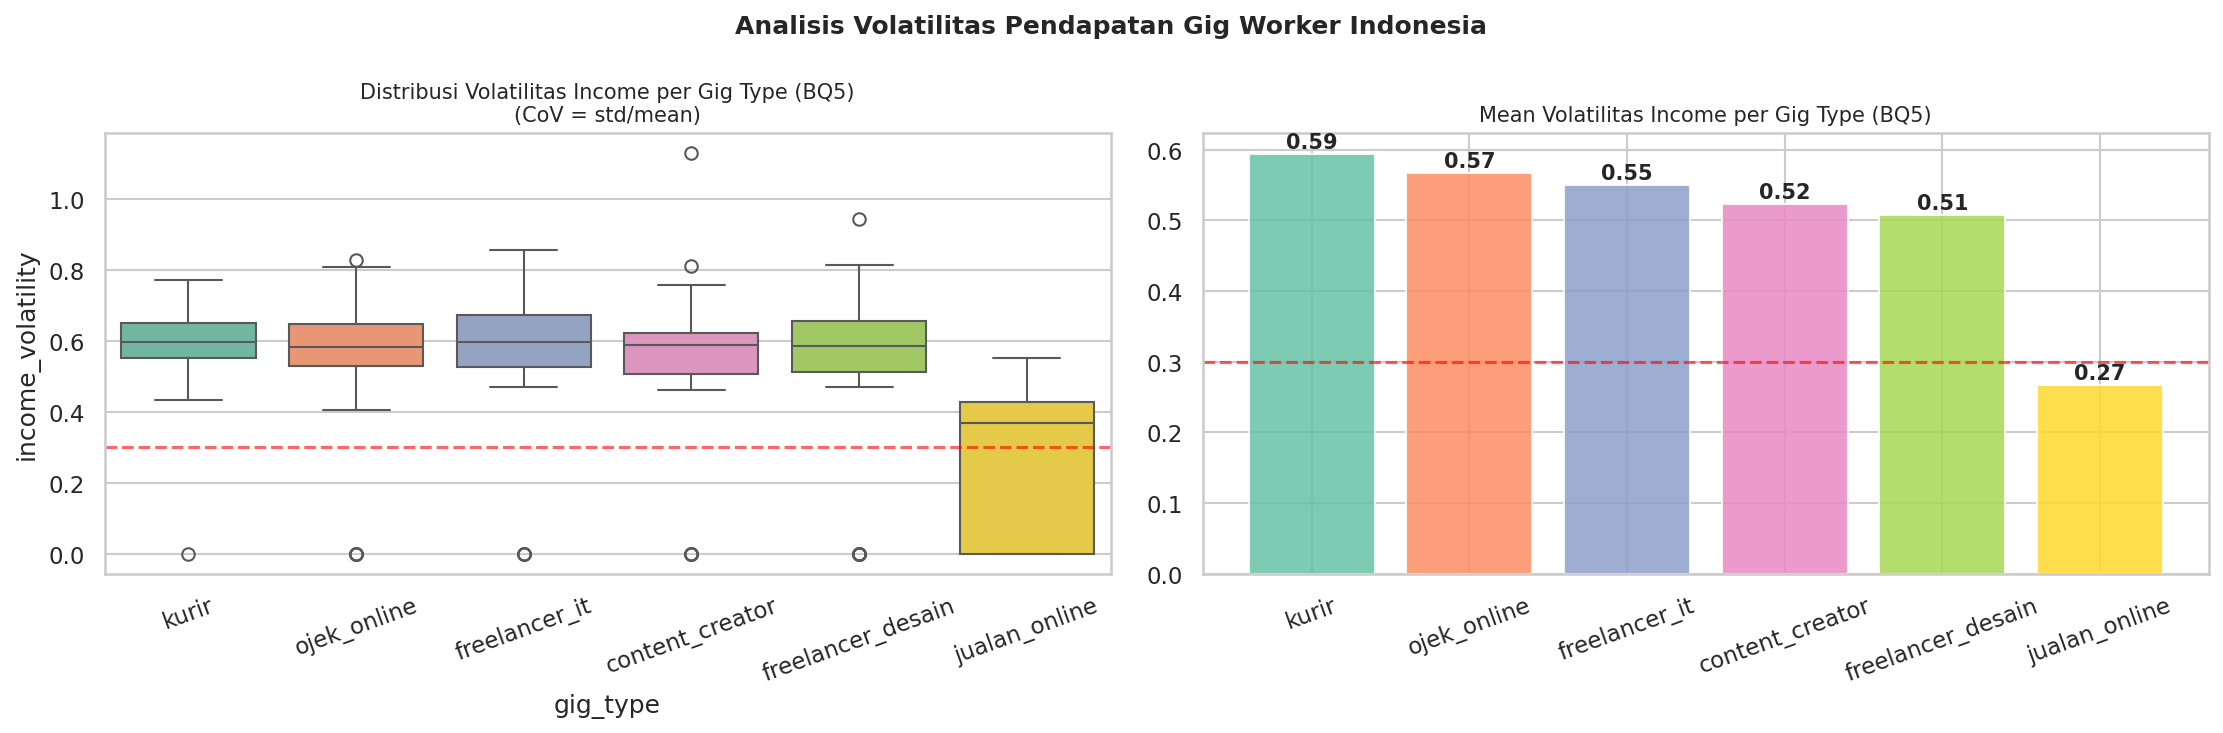
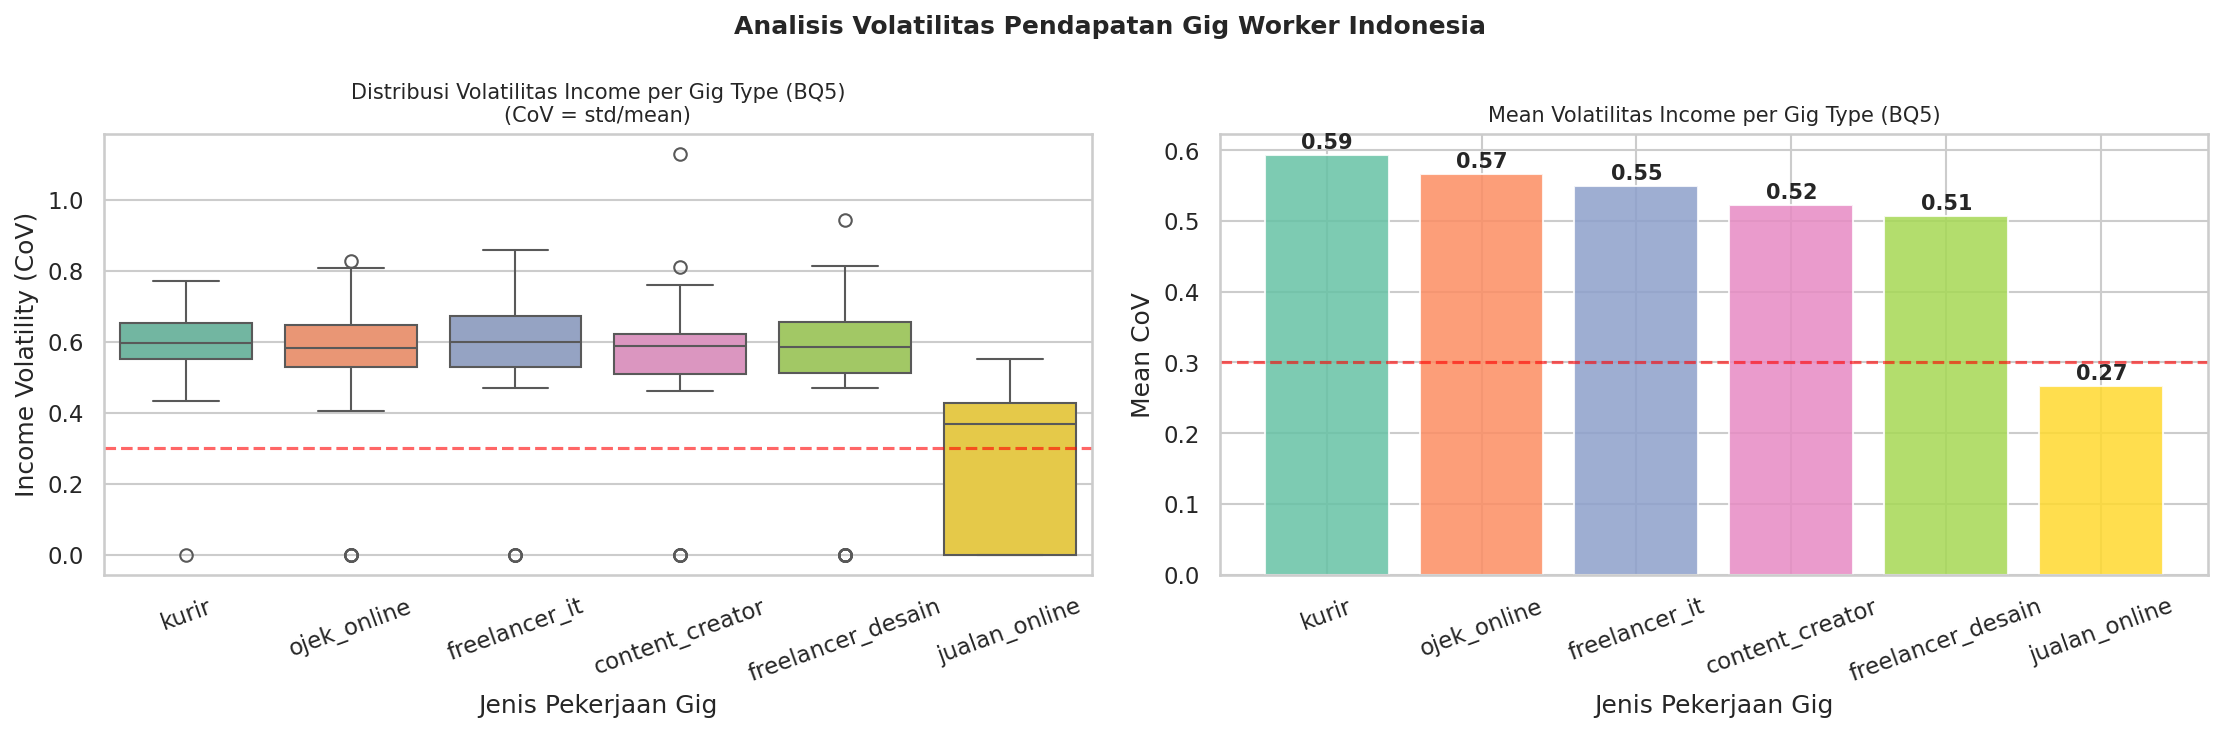
feat: update DS2 income pipeline v5 - fix CoV chart, auto assessing summary, BPS per provinsi, AR1=0.35

diff --git a/data/processed/data_dictionary.md b/data/processed/data_dictionary.md
@@ -1,64 +1,79 @@
-# Data Dictionary — income_clean.csv
+# Data Dictionary - income_clean.csv
 
 Dokumen ini menjelaskan arti setiap kolom pada dataset `income_clean.csv`.
+
+Data dictionary ini dibuat agar dataset lebih mudah dipahami oleh Data Scientist, AI Engineer, maupun pembaca non-teknis.
 
 
 ## Identitas Pengguna
 
 | Kolom | Tipe Data | Contoh/Range | Penjelasan Sederhana | Catatan |
 |---|---|---|---|---|
-| `user_id` | string | SYN_0001, SRV_0001 | Kode unik untuk membedakan setiap pengguna. | Tidak boleh duplikat untuk user yang sama. |
+| `user_id` | string | SYN_0001, SYN_0300, SRV_0001 | Kode unik untuk membedakan setiap pengguna. | Tidak boleh duplikat untuk user yang sama. |
 | `gig_type` | string | ojek_online, kurir, freelancer_it, freelancer_desain, content_creator, jualan_online | Menunjukkan jenis pekerjaan pengguna. | Dikalibrasi dari benchmark Indonesia. |
-| `region` | string | jabodetabek, bandung, jawa_tengah, ... | Lokasi tempat pengguna bekerja. | jabodetabek memiliki multiplier 1.10x. |
-| `experience_tier` | string | junior, mid, senior | Pemula, menengah, atau berpengalaman. | junior=0.65x, mid=1.0x, senior=1.45x. |
-| `platform` | string | Gojek, Grab, Shopee, Fiverr, Upwork | Aplikasi tempat pengguna bekerja. | Disesuaikan dengan jenis pekerjaan. |
+| `region` | string | jabodetabek, bandung, jawa_barat_lainnya, jawa_tengah, dan lainnya | Lokasi tempat pengguna bekerja atau tinggal. | Contoh: jabodetabek memiliki multiplier 1.10x. |
+| `experience_tier` | string | junior, mid, senior | Menunjukkan apakah pengguna masih pemula, menengah, atau sudah berpengalaman. | junior=0.65x, mid=1.0x, senior=1.45x. |
+| `platform` | string | Gojek, Grab, Shopee, Tokopedia, Fiverr, Upwork | Aplikasi atau platform tempat pengguna bekerja. | Platform disesuaikan dengan jenis pekerjaan. |
 
 ## Informasi Waktu
 
 | Kolom | Tipe Data | Contoh/Range | Penjelasan Sederhana | Catatan |
 |---|---|---|---|---|
-| `week_number` | int | 1-52 | Minggu keberapa data ini berasal. | train=1-36, val=37-44, test=45-52. |
-| `week_of_month` | int | 1-4 | Dipakai untuk melihat efek payday. | Minggu ke-4 = payday week. |
-| `seasonal_label` | string | low_season, normal, ramadan, lebaran, harbolnas, yearend | Kondisi periode (misal Ramadan, akhir tahun). | Digunakan untuk menangkap pola musiman. |
-| `seasonal_income_pattern` | int | 1-6 | Versi angka dari label musim. | Mapping dari SEASONAL_INT_MAP. |
-| `is_payday_week` | int | 0 atau 1 | Flag minggu gajian. | Efek gajian meningkatkan income gig worker. |
+| `week_number` | int | 1-52 | Menunjukkan data ini berasal dari minggu keberapa. | train=1-36, validation=37-44, test=45-52. |
+| `week_of_month` | int | 1-4 | Dipakai untuk melihat efek akhir bulan atau payday week. | Minggu ke-4 diasumsikan sebagai minggu gajian. |
+| `seasonal_label` | string | low_season, normal, ramadan, lebaran, harbolnas, yearend | Menunjukkan kondisi periode tertentu, misalnya Ramadan atau akhir tahun. | Digunakan untuk menangkap pola musiman. |
+| `seasonal_income_pattern` | int | 1-6 | Versi angka dari label musim agar lebih mudah diproses model. | Mapping dari SEASONAL_INT_MAP. |
+| `is_payday_week` | int | 0 atau 1 | Menandai apakah minggu tersebut adalah minggu akhir bulan. | Dipakai untuk melihat efek gajian terhadap pendapatan. |
 
 ## Pendapatan
 
 | Kolom | Tipe Data | Contoh/Range | Penjelasan Sederhana | Catatan |
 |---|---|---|---|---|
-| `income_amount` | float | >= 0 | Kolom utama: penghasilan pengguna per minggu. | Log-Normal AR(1), dibulatkan ke ribuan. |
-| `income_normalized` | float | 0.0-1.0 | Pendapatan dalam skala 0-1 per user. | Scaler disimpan di income_scalers.pkl. |
-| `income_growth_1w` | float | -1.0 sampai 5.0 | Income naik atau turun dari minggu lalu. | Dihitung dari income vs lag_1w. |
-| `income_vs_rolling` | float | bisa negatif atau positif | Income minggu ini lebih tinggi/rendah dari rata-rata 4 minggu terakhir. | Positif = lebih tinggi. |
+| `income_amount` | float | >= 0 | Ini adalah kolom utama yang berisi penghasilan pengguna per minggu. | Dihasilkan menggunakan distribusi Log-Normal AR(1), dibulatkan ke ribuan. |
+| `income_normalized` | float | 0.0-1.0 | Pendapatan yang sudah diubah ke skala 0 sampai 1 agar lebih mudah dipelajari model. | Scaler disimpan di income_scalers.pkl. |
+| `income_growth_1w` | float | -1.0 sampai 5.0 | Menunjukkan apakah pendapatan naik atau turun dari minggu lalu. | Dihitung dari income minggu ini dibanding lag_1w. |
+| `income_vs_rolling` | float | bisa negatif atau positif | Menunjukkan apakah pendapatan minggu ini lebih tinggi atau lebih rendah dari rata-rata 4 minggu terakhir. | Nilai positif berarti lebih tinggi dari rata-rata. |
 
 ## Feature Engineering
 
 | Kolom | Tipe Data | Contoh/Range | Penjelasan Sederhana | Catatan |
 |---|---|---|---|---|
-| `rolling_mean_4w` | float | >= 0 | Baseline income jangka pendek. | Fitur penting untuk LSTM. |
-| `rolling_std_4w` | float | >= 0 | Seberapa fluktuatif income 4 minggu terakhir. | Volatilitas jangka pendek. |
-| `rolling_cov_8w` | float | >= 0 | Ketidakstabilan income 8 minggu terakhir. | Volatilitas jangka menengah. |
-| `income_volatility` | float | >= 0 | Karakteristik volatilitas user selama setahun. | Konstan untuk user yang sama. |
-| `lag_1w` | float | >= 0 | Penghasilan minggu lalu. | Input kunci LSTM untuk pola temporal. |
-| `lag_2w` | float | >= 0 | Penghasilan 2 minggu lalu. | Pola jangka pendek. |
+| `rolling_mean_4w` | float | >= 0 | Rata-rata penghasilan pengguna dalam 4 minggu terakhir. | Salah satu fitur penting untuk prediksi LSTM. |
+| `rolling_std_4w` | float | >= 0 | Menunjukkan seberapa naik-turun pendapatan pengguna dalam 4 minggu terakhir. | Semakin tinggi nilainya, semakin tidak stabil pendapatannya. |
+| `rolling_cov_8w` | float | >= 0 | Mengukur tingkat ketidakstabilan pendapatan dalam 8 minggu terakhir. | Volatilitas jangka menengah. |
+| `income_volatility` | float | >= 0 | Mengukur seberapa tidak stabil pendapatan seorang pengguna selama setahun. | Nilainya konstan untuk user yang sama. |
+| `lag_1w` | float | >= 0 | Penghasilan minggu lalu. | Dipakai agar model bisa belajar pola waktu. |
+| `lag_2w` | float | >= 0 | Penghasilan 2 minggu lalu. | Dipakai untuk menangkap pola jangka pendek. |
 | `lag_4w` | float | >= 0 | Penghasilan 4 minggu lalu. | Membantu membaca pola bulanan. |
 
 ## Target Model
 
 | Kolom | Tipe Data | Contoh/Range | Penjelasan Sederhana | Catatan |
 |---|---|---|---|---|
-| `target_next_week` | float | >= 0 | Nilai yang diprediksi model. | Baris terakhir tiap user = NaN, harus di-drop sebelum training. |
+| `target_next_week` | float | >= 0 | Nilai yang akan diprediksi oleh model. | Baris terakhir tiap user bernilai NaN karena tidak punya minggu berikutnya. |
 
 ## Metadata
 
 | Kolom | Tipe Data | Contoh/Range | Penjelasan Sederhana | Catatan |
 |---|---|---|---|---|
-| `data_source` | string | synthetic atau survey | Apakah data dari sintesis atau survei asli. | Berguna untuk validasi proporsi. |
+| `data_source` | string | synthetic atau survey | Menandai apakah data berasal dari hasil sintesis atau survei asli. | Berguna untuk validasi proporsi data. |
+
+---
+
+## Ringkasan Kolom Penting
+
+| Jenis Kolom | Kolom | Fungsi Utama |
+|---|---|---|
+| Identitas | `user_id`, `gig_type`, `region`, `experience_tier`, `platform` | Menjelaskan profil pengguna |
+| Waktu | `week_number`, `week_of_month`, `seasonal_label`, `is_payday_week` | Menjelaskan konteks waktu pendapatan |
+| Pendapatan | `income_amount`, `income_normalized`, `income_growth_1w` | Menjelaskan nilai dan perubahan income |
+| Fitur Prediksi | `rolling_mean_4w`, `rolling_std_4w`, `rolling_cov_8w`, `lag_1w`, `lag_2w`, `lag_4w` | Digunakan sebagai input model prediksi |
+| Target | `target_next_week` | Nilai yang akan diprediksi model |
+| Metadata | `data_source` | Menandai asal data |
 
 ## Catatan untuk AI Engineer
 
-- Kolom target: `target_next_week`
-- Input utama LSTM: `income_amount`, `lag_1w`, `lag_2w`, `lag_4w`, `rolling_mean_4w`, `rolling_std_4w`, `seasonal_income_pattern`
-- Gunakan `income_normalized` untuk training agar skala stabil antar user
-- Drop baris dengan `target_next_week = NaN` sebelum training
+- Kolom utama yang diprediksi adalah `target_next_week`.
+- Kolom input penting untuk model time-series adalah `income_amount`, `lag_1w`, `lag_2w`, `lag_4w`, `rolling_mean_4w`, `rolling_std_4w`, dan `seasonal_income_pattern`.
+- Kolom `income_normalized` digunakan agar skala pendapatan antar-user lebih stabil untuk model.
+- Baris terakhir setiap user memiliki `target_next_week = NaN`, sehingga perlu dihapus sebelum training supervised learning.

diff --git a/outputs/synthetic_proportion_report.md b/outputs/synthetic_proportion_report.md
@@ -30,5 +30,5 @@
 | kurir | Rp 730rb | IDinsight 2025 net + CELIOS 2024 |
 | freelancer_it | Rp 1.6jt | Sakernas Jakarta 2023 - sektor informasi & komunikasi |
 | freelancer_desain | Rp 1.2jt | Sakernas Jakarta 2023 - sektor jasa perusahaan |
-| content_creator | Rp 1.1jt | Estimasi midpoint transport & skilled |
+| content_creator | Rp 1.1jt | Estimasi - midpoint transport & skilled |
 | jualan_online | Rp 900rb | IDinsight 2025 casual + self-employed average |
